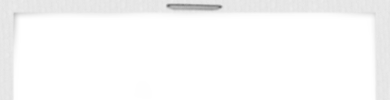
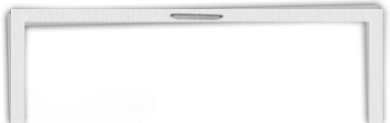
tweede type progressbar functie gemaakt, en gecustomised voor training.

Changed region(s): [[0.0, 0.0, 1.0, 1.0], [0.9846, 0.12, 1.0, 0.15]]

diff --git a/js/jquery-ui-1.8.9.custom/js/jquery-ui-1.8.9.custom.min.js b/js/jquery-ui-1.8.9.custom/js/jquery-ui-1.8.9.custom.min.js
@@ -559,6 +559,10 @@ return this.each(function(){typeof a=="string"?d.datepicker["_"+a+"Datepicker"].
 (function(b,d){b.widget("ui.progressbar",{options:{value:0,max:100},min:0,_create:function(){this.element.addClass("ui-progressbar ui-widget ui-widget-content ui-corner-all").attr({role:"progressbar","aria-valuemin":this.min,"aria-valuemax":this.options.max,"aria-valuenow":this._value()});this.valueDiv=b("<div class='ui-progressbar-value ui-widget-header ui-corner-left'></div>").appendTo(this.element);this.oldValue=this._value();this._refreshValue()},destroy:function(){this.element.removeClass("ui-progressbar ui-widget ui-widget-content ui-corner-all").removeAttr("role").removeAttr("aria-valuemin").removeAttr("aria-valuemax").removeAttr("aria-valuenow");
 this.valueDiv.remove();b.Widget.prototype.destroy.apply(this,arguments)},value:function(a){if(a===d)return this._value();this._setOption("value",a);return this},_setOption:function(a,c){if(a==="value"){this.options.value=c;this._refreshValue();this._value()===this.options.max&&this._trigger("complete")}b.Widget.prototype._setOption.apply(this,arguments)},_value:function(){var a=this.options.value;if(typeof a!=="number")a=0;return Math.min(this.options.max,Math.max(this.min,a))},_percentage:function(){return 100*
 this._value()/this.options.max},_refreshValue:function(){var a=this.value(),c=this._percentage();if(this.oldValue!==a){this.oldValue=a;this._trigger("change")}this.valueDiv.toggleClass("ui-corner-right",a===this.options.max).width(c.toFixed(0)+"%");this.element.attr("aria-valuenow",a)}});b.extend(b.ui.progressbar,{version:"1.8.9"})})(jQuery);
+////////////////////////////////////////////////////////////////////////////// progressbarTraining  
+(function(b,d){b.widget("ui.progressbarTraining",{options:{value:0,max:100},min:0,_create:function(){this.element.addClass("ui-progressbarTraining ui-widget ui-widget-content ui-corner-all").attr({role:"progressbarTraining","aria-valuemin":this.min,"aria-valuemax":this.options.max,"aria-valuenow":this._value()});this.valueDiv=b("<div class='ui-progressbarTraining-value ui-widget-headerTraining ui-corner-left'></div>").appendTo(this.element);this.oldValue=this._value();this._refreshValue()},destroy:function(){this.element.removeClass("ui-progressbarTraining ui-widget ui-widget-content ui-corner-all").removeAttr("role").removeAttr("aria-valuemin").removeAttr("aria-valuemax").removeAttr("aria-valuenow");
+this.valueDiv.remove();b.Widget.prototype.destroy.apply(this,arguments)},value:function(a){if(a===d)return this._value();this._setOption("value",a);return this},_setOption:function(a,c){if(a==="value"){this.options.value=c;this._refreshValue();this._value()===this.options.max&&this._trigger("complete")}b.Widget.prototype._setOption.apply(this,arguments)},_value:function(){var a=this.options.value;if(typeof a!=="number")a=0;return Math.min(this.options.max,Math.max(this.min,a))},_percentage:function(){return 100*
+this._value()/this.options.max},_refreshValue:function(){var a=this.value(),c=this._percentage();if(this.oldValue!==a){this.oldValue=a;this._trigger("change")}this.valueDiv.toggleClass("ui-corner-right",a===this.options.max).width(c.toFixed(0)+"%");this.element.attr("aria-valuenow",a)}});b.extend(b.ui.progressbarTraining,{version:"1.8.9"})})(jQuery);
 ;/*
  * jQuery UI Effects 1.8.9
  *

diff --git a/js/korfbal/training.js b/js/korfbal/training.js
@@ -53,28 +53,28 @@ $(function() {
 					
 					
 					//alert(spelers[i].rebound_tr);
-					$( ".rebound_tr"+spelers[i].spelerid).progressbar({
+					$( ".rebound_tr"+spelers[i].spelerid).progressbarTraining({
 					 value: spelers[i].rebound_tr / 10
 					});
-					$( ".passing_tr"+spelers[i].spelerid ).progressbar({
+					$( ".passing_tr"+spelers[i].spelerid ).progressbarTraining({
 						value: spelers[i].passing_tr /10 
 					});
-					$( ".intercepting_tr"+spelers[i].spelerid ).progressbar({
+					$( ".intercepting_tr"+spelers[i].spelerid ).progressbarTraining({
 						value: spelers[i].intercepting_tr / 10
 					});
-					$( ".shotpower_tr"+spelers[i].spelerid).progressbar({
+					$( ".shotpower_tr"+spelers[i].spelerid).progressbarTraining({
 						value: spelers[i].shotpower_tr  / 10
 					});
-					$( ".shotprecision_tr"+spelers[i].spelerid).progressbar({
+					$( ".shotprecision_tr"+spelers[i].spelerid).progressbarTraining({
 						value: spelers[i].shotprecision_tr / 10
 					});
-					$( ".leadership_tr"+spelers[i].spelerid ).progressbar({
+					$( ".leadership_tr"+spelers[i].spelerid ).progressbarTraining({
 						value: spelers[i].leadership_tr / 10
 					});
-					$( ".playmaking_tr"+spelers[i].spelerid ).progressbar({
+					$( ".playmaking_tr"+spelers[i].spelerid ).progressbarTraining({
 						value: spelers[i].playmaking_tr / 10
 					});
-					$( ".stamina_tr"+spelers[i].spelerid ).progressbar({
+					$( ".stamina_tr"+spelers[i].spelerid ).progressbarTraining({
 						value: spelers[i].stamina_tr / 10
 					});
 

diff --git a/css/style1168.less b/css/style1168.less
@@ -208,7 +208,7 @@ color: @korfbalColor;
 	border: 1px solid #CCC;
 }
 .playerDetail {
-height: 412px;
+height: 390px;
 }
 .players .number {
 	font-size: 64px;
@@ -277,11 +277,13 @@ height: 412px;
 	color: #222;
 }
 .gameRight div {
-margin: 0 0 20px 0;
-padding: 5px 20px 15px 20px;
--webkit-box-shadow:  0px 0px 10px #000;
-	-moz-box-shadow:  0px 0px 10px #bdbdbd;
-	box-shadow:  0px 0px 15px #999;
+margin: 0 0 25px 0;
+padding: 15px 25px 20px 25px;
+/*
+-webkit-box-shadow:  0px 0px 10px #bfbfbf;
+	-moz-box-shadow:  0px 0px 10px #bfbfbf;
+	box-shadow:  0px 0px 10px #bfbfbf;
+*/
 	.borderRadius;
 }
 .gameRight div:nth-child(1) {
@@ -291,9 +293,9 @@ background: #FFF; /* unsupported */
 				url(../images/box_r.png) repeat-y 100% 0%,
 				url(../images/box_t.png) no-repeat 0 0,
 				url(../images/box_tl.png) no-repeat 0 0, 
-				url(../images/box_tr.png) no-repeat 100% 0,
+				url(../images/box_tr.png) no-repeat 100% 0;
   
-				url(../images/box_c.png) repeat 0% 0%;
+
 				
 
 
@@ -309,7 +311,7 @@ background: #FFF; /* unsupported */
 	background: url(../images/box_b.png) repeat-x 0 100%, 
 				url(../images/box_l.png) repeat-y 0 100%, 
 				url(../images/box_r.png) repeat-y 100% 0%,
-				url(../images/box_t.png) no-repeat 0 0,
+				url(../images/box_t2.png) no-repeat 0 0,
 				url(../images/box_tl.png) no-repeat 0 0, 
 				url(../images/box_tr.png) no-repeat 100% 0,
   

diff --git a/js/jquery-ui-1.8.9.custom/css/ui-lightness/jquery-ui-1.8.9.custom.css b/js/jquery-ui-1.8.9.custom/css/ui-lightness/jquery-ui-1.8.9.custom.css
@@ -62,6 +62,7 @@
 .ui-widget-content { border: 1px solid #dddddd; background: #eee url(images/ui-bg_highlight-soft_100_eeeeee_1x100.png) 50% top repeat-x; color: #333333; }
 .ui-widget-content a { color: #333333; }
 .ui-widget-header { border: 1px solid #e78f08; background: #f6a828 url(images/ui-bg_gloss-wave_35_f6a828_500x100.png) 50% 50% repeat-x; color: #ffffff; font-weight: bold; }
+.ui-widget-headerTraining { border: 1px solid #A8A8A8; background: #f6a828 url(images/ui-bg_gloss-training_35_f6a828_500x100.png) 50% 50% repeat-x; color: #ffffff; font-weight: bold; }
 .ui-widget-header a { color: #ffffff; }
 
 /* Interaction states
@@ -571,3 +572,5 @@ button.ui-button::-moz-focus-inner { border: 0; padding: 0; } /* reset extra pad
  */
 .ui-progressbar { height:15px; text-align: left; }
 .ui-progressbar .ui-progressbar-value {margin: -1px; height:100%; }
+.ui-progressbarTraining { height:9px; text-align: left; }
+.ui-progressbarTraining .ui-progressbarTraining-value {margin: -1px; height:100%; }

diff --git a/application/views/korfbal/korfbal_speler.php b/application/views/korfbal/korfbal_speler.php
@@ -150,11 +150,39 @@ $("#transfer").submit(function(){
 ?>
 </div>
 <div class="gameRight">
-    <div><h2>overzicht</h2></div>
-    <div><h2>aantal matchen gespeeld</h2></div>
-    <div><h2>aantal goals in carriere</h2></div>
-    <div><h2>goals dit seizoen</h2></div>
-    <div><h2>goals vorige wedstrijd</h2></div>
-    <div><h2>beste prestatie</h2></div>
-    <div><h2>prestatie vorige wedstrijd</h2></div>
+    <div>
+        <h2>overzicht</h2>
+        <p>een regel content minstens</p>
+        <p>bij voorkeur twee</p>
+    </div>
+    <div>
+        <h2>aantal matchen gespeeld</h2>
+        <p>een regel content minstens</p>
+        <p>bij voorkeur twee</p>
+    </div>
+    <div>
+        <h2>aantal goals in carriere</h2>
+        <p>een regel content minstens</p>
+        <p>bij voorkeur twee</p>
+    </div>
+    <div>
+        <h2>goals dit seizoen</h2>
+        <p>een regel content minstens</p>
+        <p>bij voorkeur twee</p>
+    </div>
+    <div>
+        <h2>goals vorige wedstrijd</h2>
+        <p>een regel content minstens</p>
+        <p>bij voorkeur twee</p>
+    </div>
+    <div>
+        <h2>beste prestatie</h2>
+        <p>een regel content minstens</p>
+        <p>bij voorkeur twee</p>
+    </div>
+    <div>
+        <h2>prestatie vorige wedstrijd</h2>
+        <p>een regel content minstens</p>
+        <p>bij voorkeur twee</p>
+    </div>
 </div>
